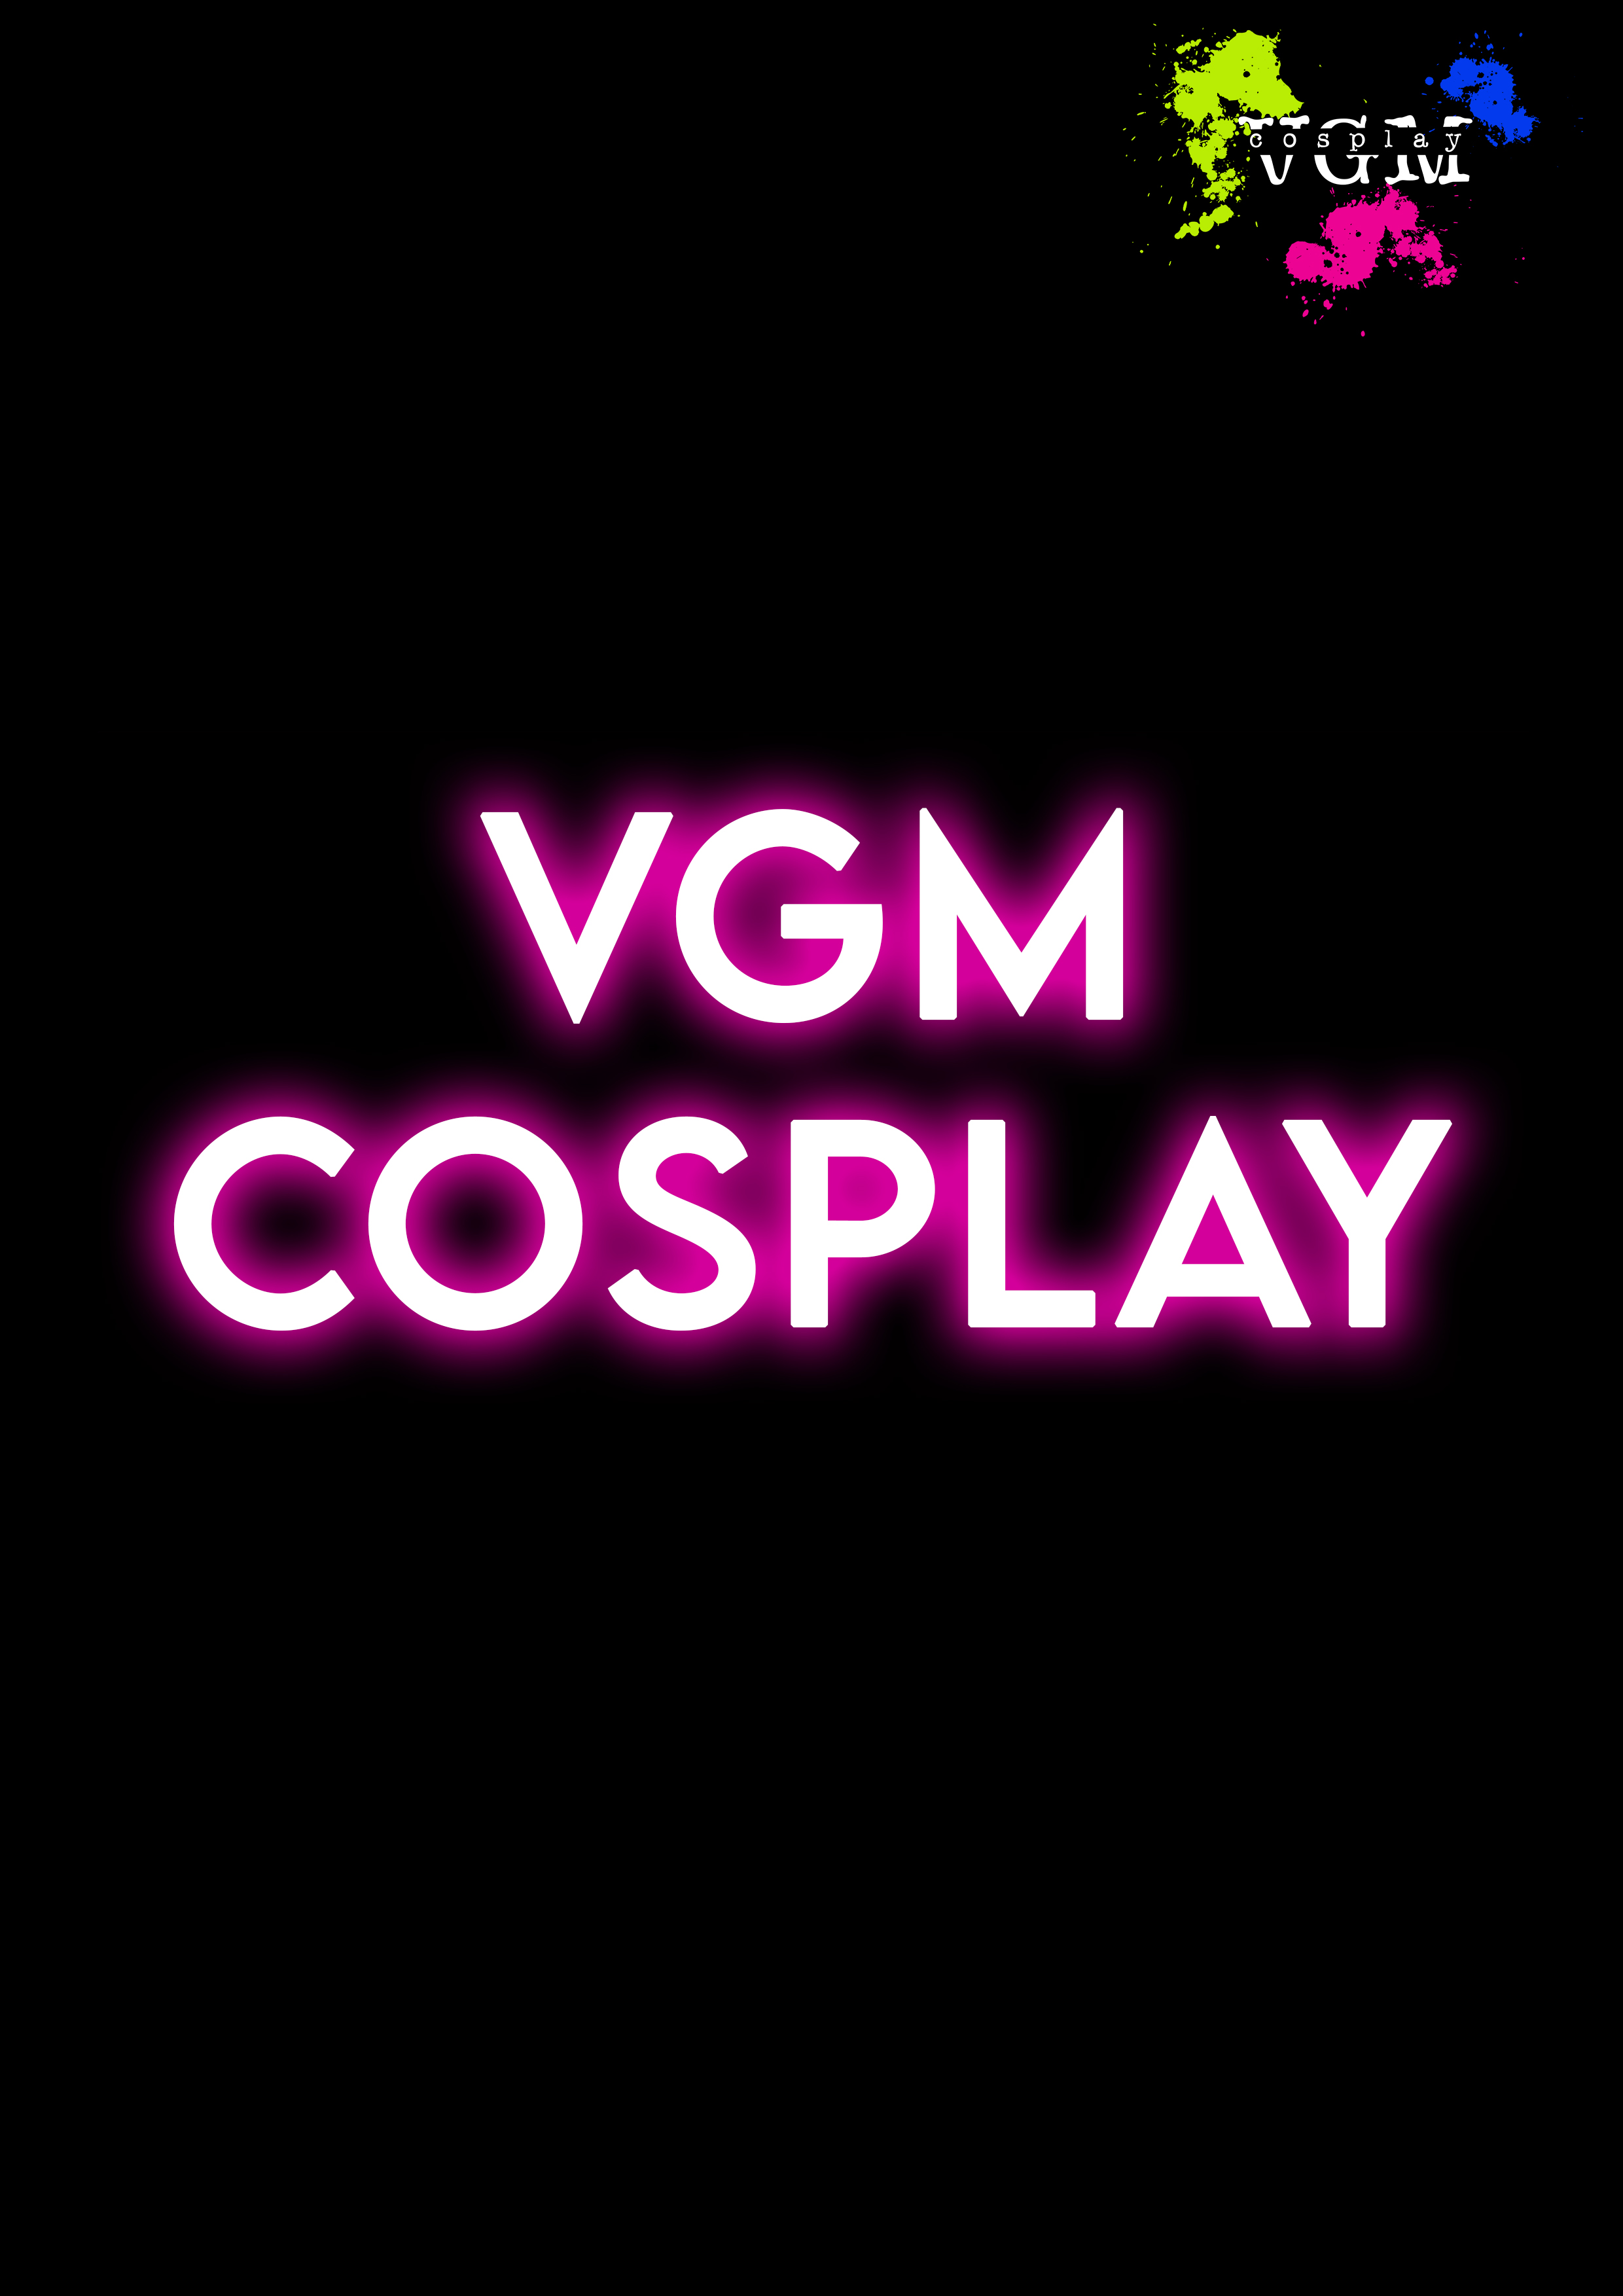
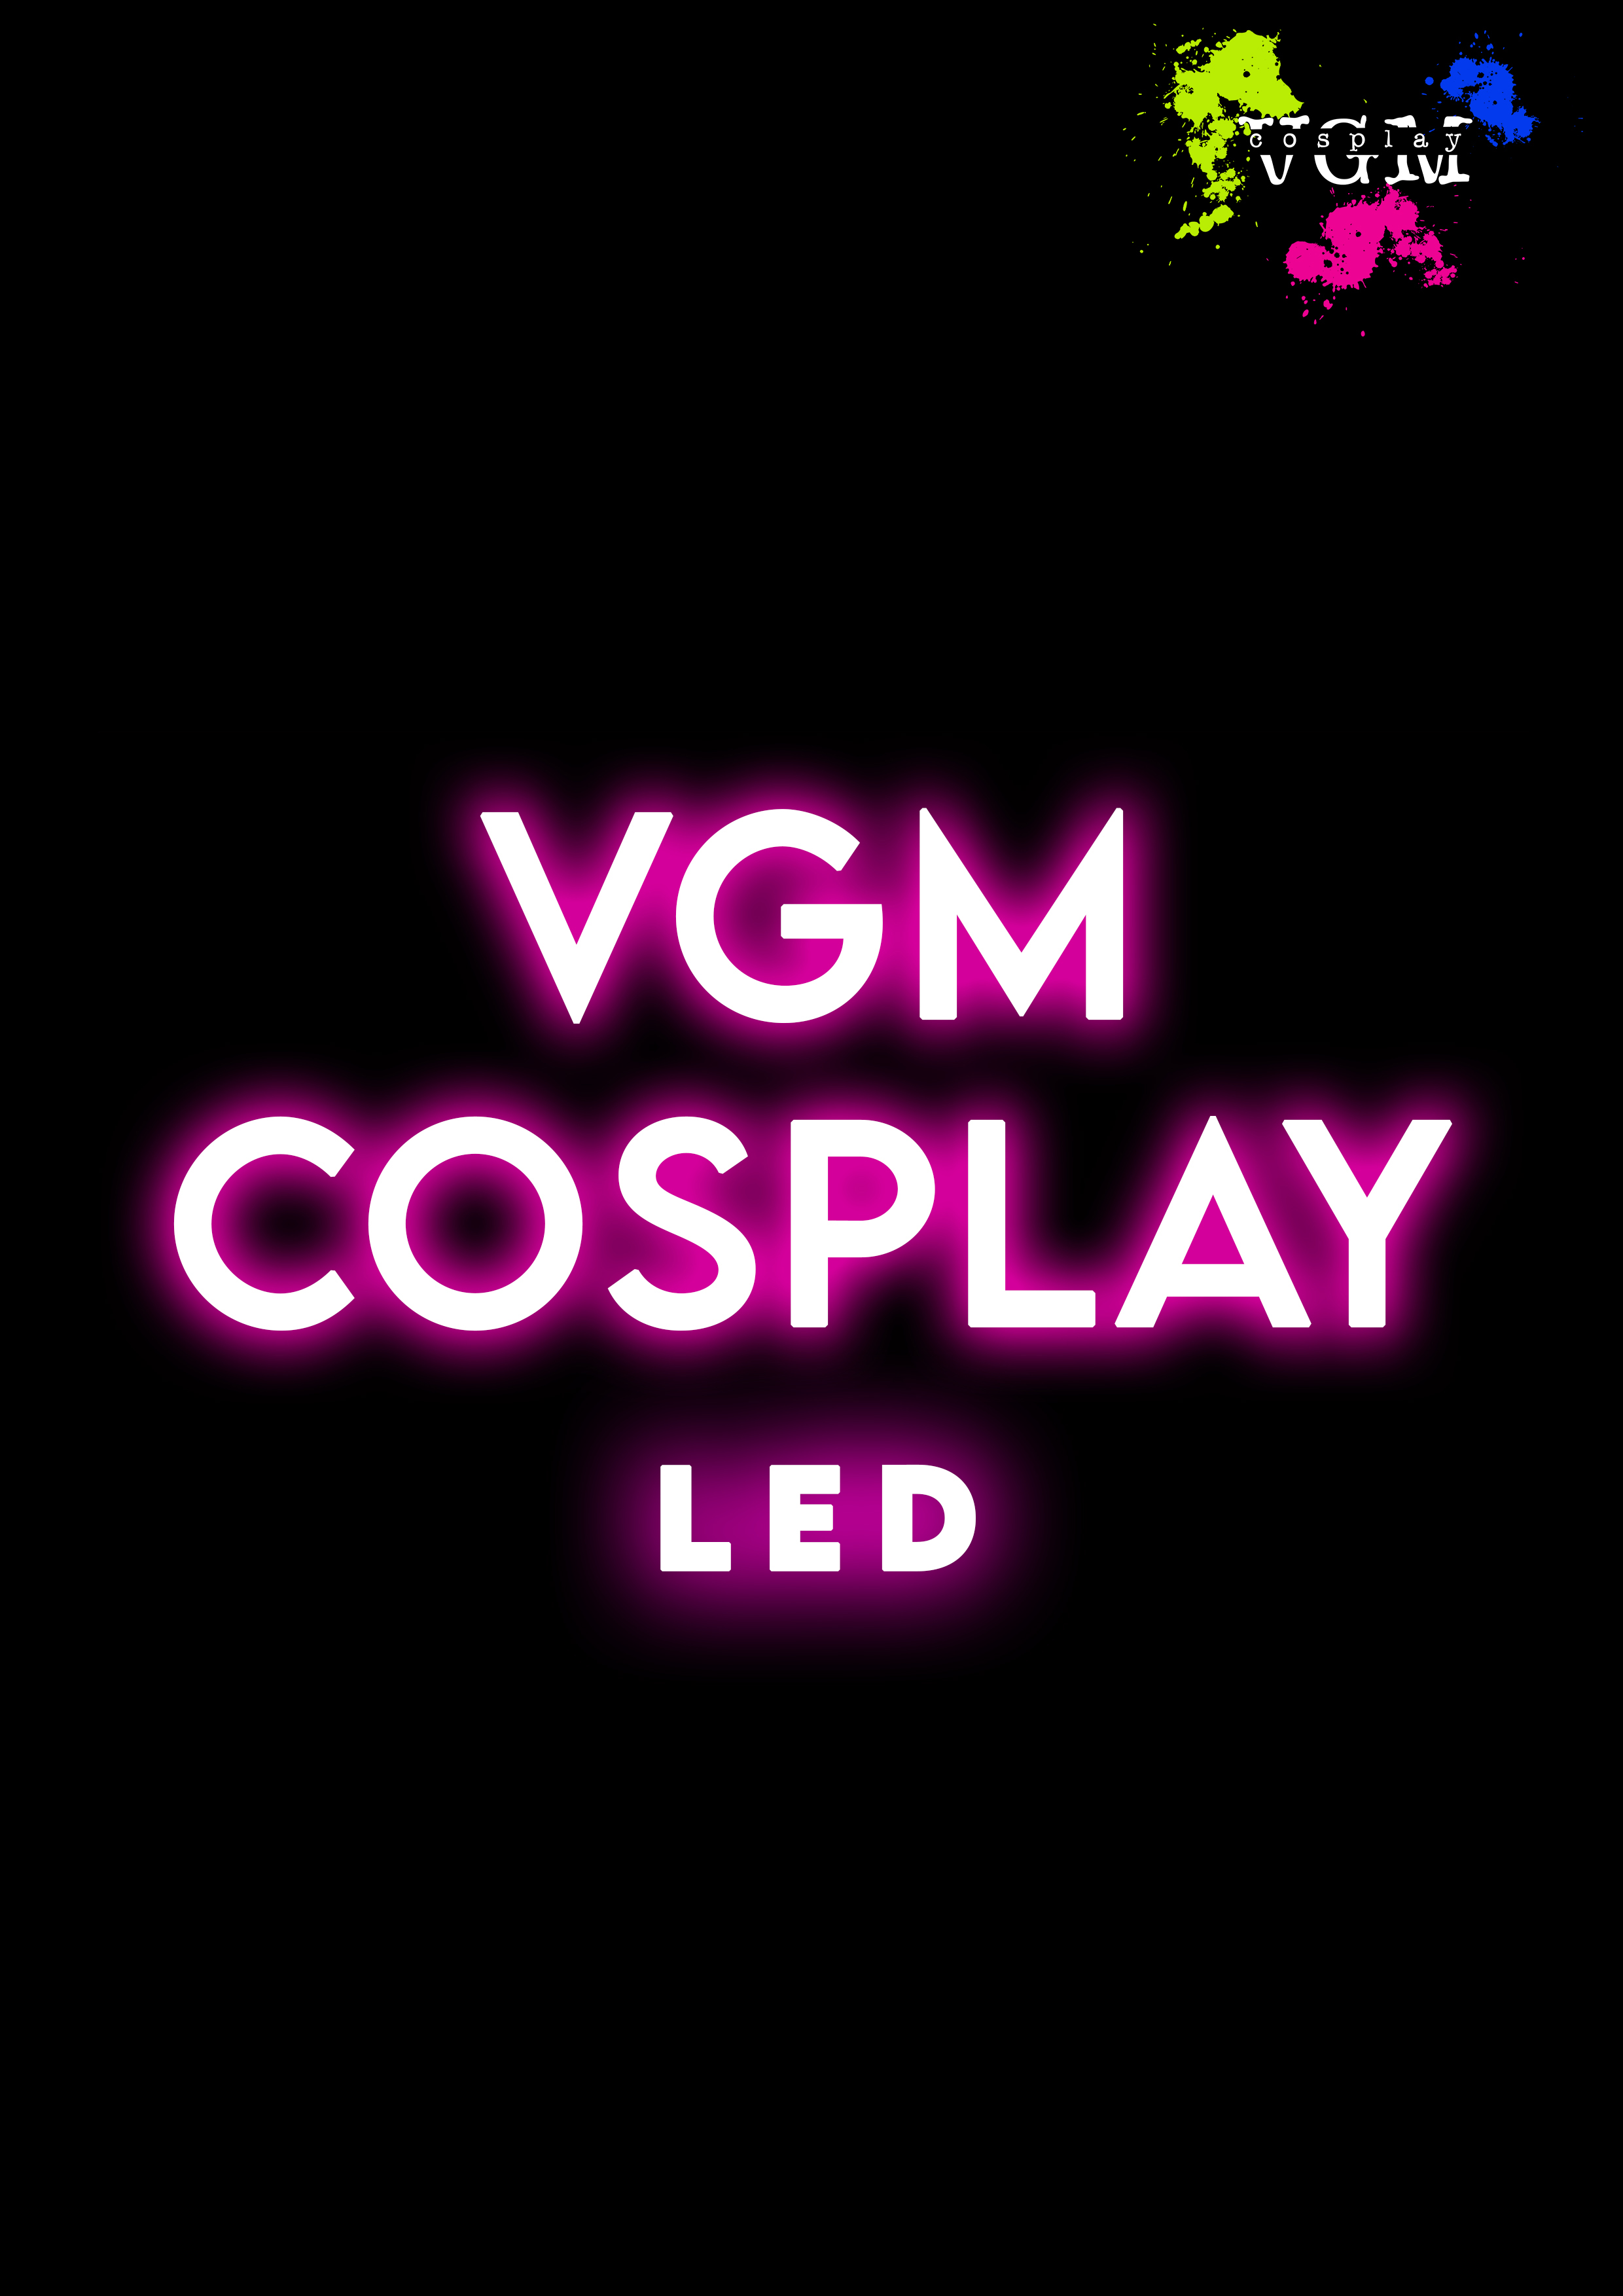
maj agenda

Changed region(s): [[0.3415, 0.5904, 0.652, 0.7147]]

diff --git a/agenda.html b/agenda.html
@@ -34,22 +34,33 @@
          ÉVÉNEMENT 2
     ===================== -->
     <div class="agenda-event">
+        <div class="agenda-date">26 Septembre<br><br>Orchies</div>
+        <div class="agenda-images">
+            <img src="images/pastilles/asso_reggae_ths.png" alt="Salon 2" class="agenda-logo"
+                 onclick="window.open('https://www.facebook.com/groups/871044681826932/', '_blank')">
+            <img src="images/pastilles/costume_led.png" alt="Costume 2" class="agenda-logo">
+        </div>
+    </div>
+</div>
+        <!-- =====================
+         ÉVÉNEMENT 3
+    ===================== -->
+    <div class="agenda-event">
         <div class="agenda-date">12 & 13 Décembre<br><br>La Louvière</div>
         <div class="agenda-images">
-            <img src="images/pastilles/wgf.png" alt="Salon 2" class="agenda-logo"
+            <img src="images/pastilles/wgf.png" alt="Salon 3" class="agenda-logo"
                  onclick="window.open('https://wintergeekfestival.be/', '_blank')">
             <img src="images/pastilles/santa_brook.png" alt="Costume 2" class="agenda-logo">
             <img src="images/pastilles/santa_jack.png" alt="Costume 3" class="agenda-logo">
         </div>
     </div>
 
-
 </main>
 
 <footer>
     <div class="footer-content">
         <img src="images/footer/logo_vgm.png" class="footer-logo" alt="Logo Footer 1">
-        <h4>VGM Cosplay<br>Version 1.9.9 • © 2026</h4>
+        <h4>VGM Cosplay<br>Version 1.9.10 • © 2026</h4>
         <img src="images/footer/logo_kazuko.png" class="footer-logo" alt="Logo Footer 2">
     </div>
 </footer>

diff --git a/site.html b/site.html
@@ -172,7 +172,7 @@ Découvrez notre collection de costumes uniques et spectaculaires, conçus pour 
 	Un costume est à venir pour les Pacques !</div></div>
 
     <div class="card card-box reveal">
-     <img src="images/costumes/neon.jpg">
+     <img src="images/costumes/led.jpg">
      <span class="stamp stamp-white">À VENIR</span>
      <h3>NOUVEAU COSTUME</h3>
      <div class="details">
@@ -539,7 +539,7 @@ Participez à nos ateliers créatifs et immersifs, où imagination et savoir-fai
   <div class="footer-content">
     <img src="images/footer/logo_vgm.png" alt="Logo VGM Cosplay" class="footer-logo">
     
-    <h4>VGM Cosplay<br>Version 1.9.9 • © 2026</h4>
+    <h4>VGM Cosplay<br>Version 1.9.10 • © 2026</h4>
     
     <img src="images/footer/logo_kazuko.png" alt="Logo Association" class="footer-logo">
   </div>

diff --git a/devis.html b/devis.html
@@ -27,7 +27,7 @@
     <div class="footer-content">
         <img src="images/footer/logo_vgm.png" class="footer-logo" alt="Logo Footer 1">
 
-        <h4>VGM Cosplay<br>Version 1.9.9 • © 2026</h4>
+        <h4>VGM Cosplay<br>Version 1.9.0 • © 2026</h4>
 
         <img src="images/footer/logo_kazuko.png" class="footer-logo" alt="Logo Footer 2">
     </div>